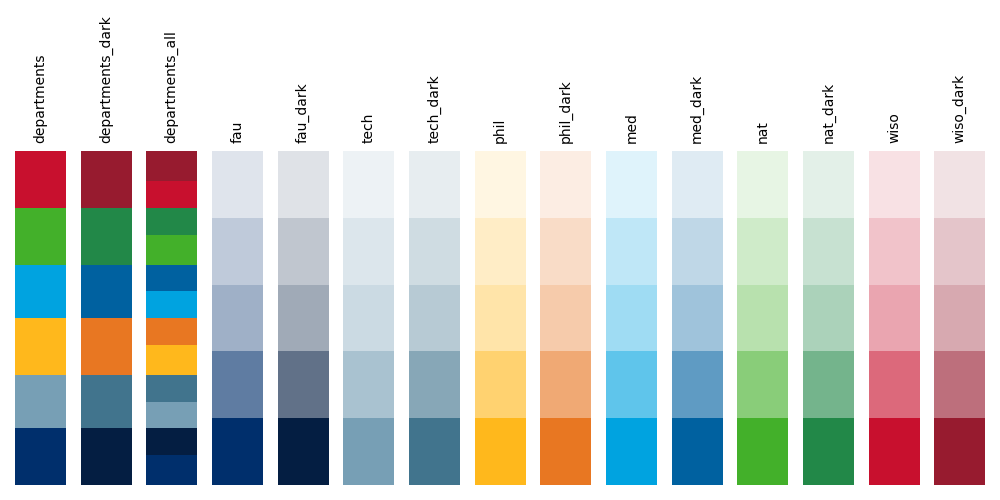
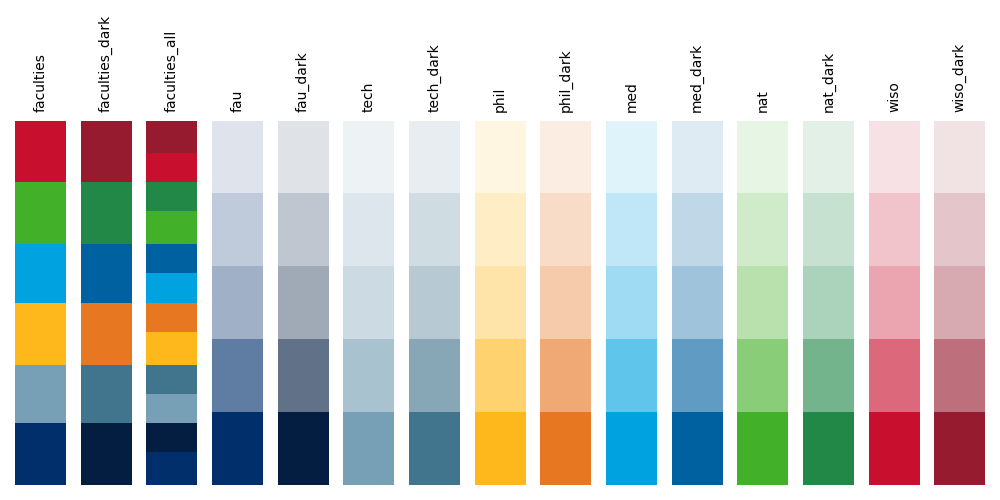
renamed department to faculty in code, updated example images

diff --git a/fau_colors/v2021.py b/fau_colors/v2021.py
@@ -6,16 +6,18 @@ from typing_extensions import Literal
 
 from fau_colors._utils import custom_blend_colormap, get_register_func, get_unregister_func
 
+__all__ = ["colors", "colors_all", "colors_dark", "cmaps", "register_cmaps", "unregister_cmaps"]
+
 NAMED_COLORS_T = Literal["fau", "tech", "phil", "med", "nat", "wiso"]
 NAMED_COLORS = ["fau", "tech", "phil", "med", "nat", "wiso"]
 
-_DepartmentColors = namedtuple("DepartmentColors", NAMED_COLORS)
-_DepartmentColorsAll = namedtuple("DepartmentColorsAll", [f"{a}{b}" for a, b in product(NAMED_COLORS, ("", "_dark"))])
-_CmapsAll = namedtuple("Cmaps", ["departments", "departments_dark", "departments_all", *_DepartmentColorsAll._fields])
+_FacultyColors = namedtuple("FacultyColors", NAMED_COLORS)
+_FacultyColorsAll = namedtuple("FacultyColorsAll", [f"{a}{b}" for a, b in product(NAMED_COLORS, ("", "_dark"))])
+_CmapsAll = namedtuple("Cmaps", ["faculties", "faculties_dark", "faculties_all", *_FacultyColorsAll._fields])
 
 _LIGHTNESS_LEVELS = [0.125, 0.25, 0.375, 0.625, 1]
 
-colors = _DepartmentColors(
+colors = _FacultyColors(
     fau="#002F6C",
     tech="#779FB5",
     phil="#FFB81C",
@@ -23,17 +25,17 @@ colors = _DepartmentColors(
     nat="#43B02A",
     wiso="#C8102E",
 )
-colors_dark = _DepartmentColors(
+colors_dark = _FacultyColors(
     fau="#041E42", tech="#41748D", phil="#E87722", med="#0061A0", nat="#228848", wiso="#971B2F"
 )
-colors_all: _DepartmentColorsAll = _DepartmentColorsAll(
+colors_all: _FacultyColorsAll = _FacultyColorsAll(
     **colors._asdict(), **{f"{k}_dark": v for k, v in colors_dark._asdict().items()}
 )
 
 cmaps = _CmapsAll(
-    departments=sns.color_palette(list(colors), as_cmap=True),
-    departments_dark=sns.color_palette(list(colors_dark), as_cmap=True),
-    departments_all=sns.color_palette(list(colors_all), as_cmap=True),
+    faculties=sns.color_palette(list(colors), as_cmap=True),
+    faculties_dark=sns.color_palette(list(colors_dark), as_cmap=True),
+    faculties_all=sns.color_palette(list(colors_all), as_cmap=True),
     **{
         k: sns.color_palette(custom_blend_colormap(["#FFFFFF", v], list(reversed(_LIGHTNESS_LEVELS))), as_cmap=True)
         for k, v in colors_all._asdict().items()

diff --git a/fau_colors/v2019.py b/fau_colors/v2019.py
@@ -5,14 +5,17 @@ from typing_extensions import Literal
 
 from fau_colors._utils import custom_blend_colormap, get_register_func, get_unregister_func
 
+__all__ = ["colors", "cmaps", "register_cmaps", "unregister_cmaps"]
+
+
 NAMED_COLORS = Literal["fau", "tech", "phil", "med", "nat", "wiso"]
 _LIGHTNESS_LEVELS = [0.125, 0.25, 0.375, 0.625, 1]
 
 
-_DepartmentColors = namedtuple("DepartmentColors", ["fau", "tech", "phil", "med", "nat", "wiso"])
-_CmapsAll = namedtuple("Pallets", ["departments", *_DepartmentColors._fields])
+_FacultyColors = namedtuple("FacultyColors", ["fau", "tech", "phil", "med", "nat", "wiso"])
+_CmapsAll = namedtuple("Pallets", ["faculties", *_FacultyColors._fields])
 
-colors = _DepartmentColors(
+colors = _FacultyColors(
     fau="#003865",
     tech="#98a4ae",
     phil="#c99313",
@@ -23,7 +26,7 @@ colors = _DepartmentColors(
 
 
 cmaps = _CmapsAll(
-    departments=sns.color_palette(list(colors)),
+    faculties=sns.color_palette(list(colors)),
     **{
         k: sns.color_palette(custom_blend_colormap(["#FFFFFF", v], list(reversed(_LIGHTNESS_LEVELS))), as_cmap=True)
         for k, v in colors._asdict().items()
